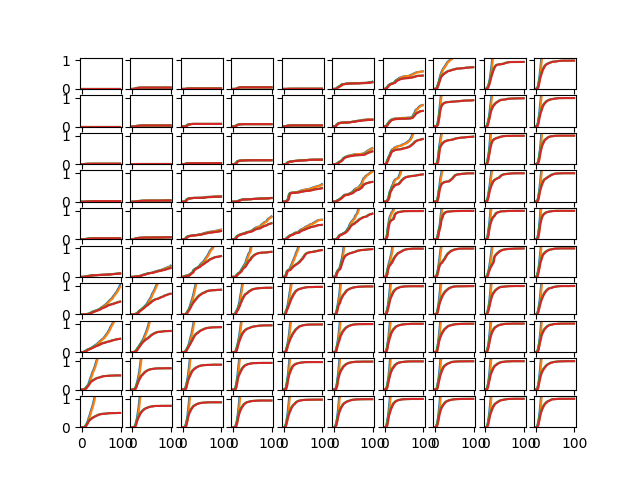
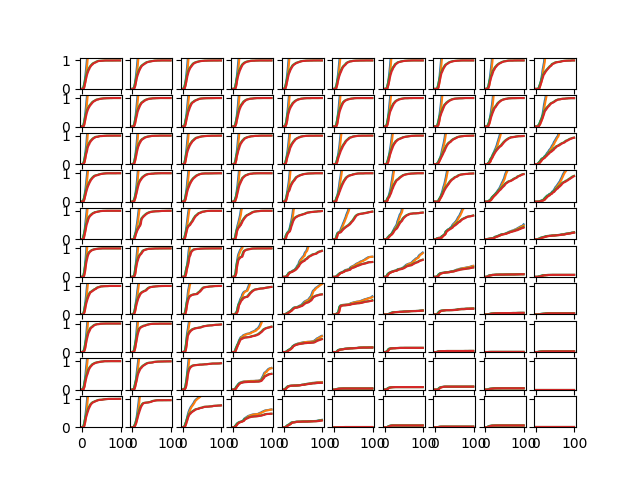
Updated graph cords and colors as per Tony's suggestion

Changed region(s): [[0.125, 0.125, 0.9062, 0.9062], [0.375, 0.5938, 0.4062, 0.625], [0.3438, 0.625, 0.375, 0.6562]]

diff --git a/heatmap.py b/heatmap.py
@@ -17,16 +17,20 @@ for i, e in enumerate(evapor_set):
                 if ("evpr-"+str(e)) in file:
                     # print(m)
                     dt = np.array(pd.read_csv(file, header=None))
-                    spec_data[i,m-1] = dt[-1]
+                    modified_data = dt[-1]
+                    modified_data = (modified_data)/(1-(2**-m))
+                    spec_data[9-i,9-(m-1)] = modified_data
                     break
     
 
 # #heatmap axis
-x = [0,0.5,1.0,2.0,5.0,10,50,100,500,1000]
+x = np.array([0,0.5,1.0,2.0,5.0,10,50,100,500,1000])
 # y = [str(n) for n in range(1,11)]
-y = ['2^-'+str(n) for n in range(1,11)]
-color_blue = sns.color_palette("Blues", as_cmap=True)
-color_green = sns.color_palette("Greens", as_cmap=True)
+y = np.array(['2^-'+str(n) for n in range(1,11)])
+x=x[::-1]
+y=y[::-1]
+color_blue = sns.color_palette("coolwarm_r", as_cmap=True)
+color_green = sns.color_palette("coolwarm_r", as_cmap=True)
 
 fig,axn = plt.subplots(2, 2, sharex=True, sharey=True)
 

diff --git a/graph_all.py b/graph_all.py
@@ -16,7 +16,9 @@ for i, e in enumerate(evapor_set):
                 if ("evpr-"+str(e)) in file:
                     dt = np.array(pd.read_csv(file, header=None))
                     # print(dt.shape)
-                    spec_data[i,m-1] = dt
+                    modified_data = dt
+                    modified_data = (modified_data)/(1-(2**-m))
+                    spec_data[9-i,9-(m-1)] = modified_data
                     break
     
 fig,axn = plt.subplots(10, 10, sharex=True, sharey=True)
